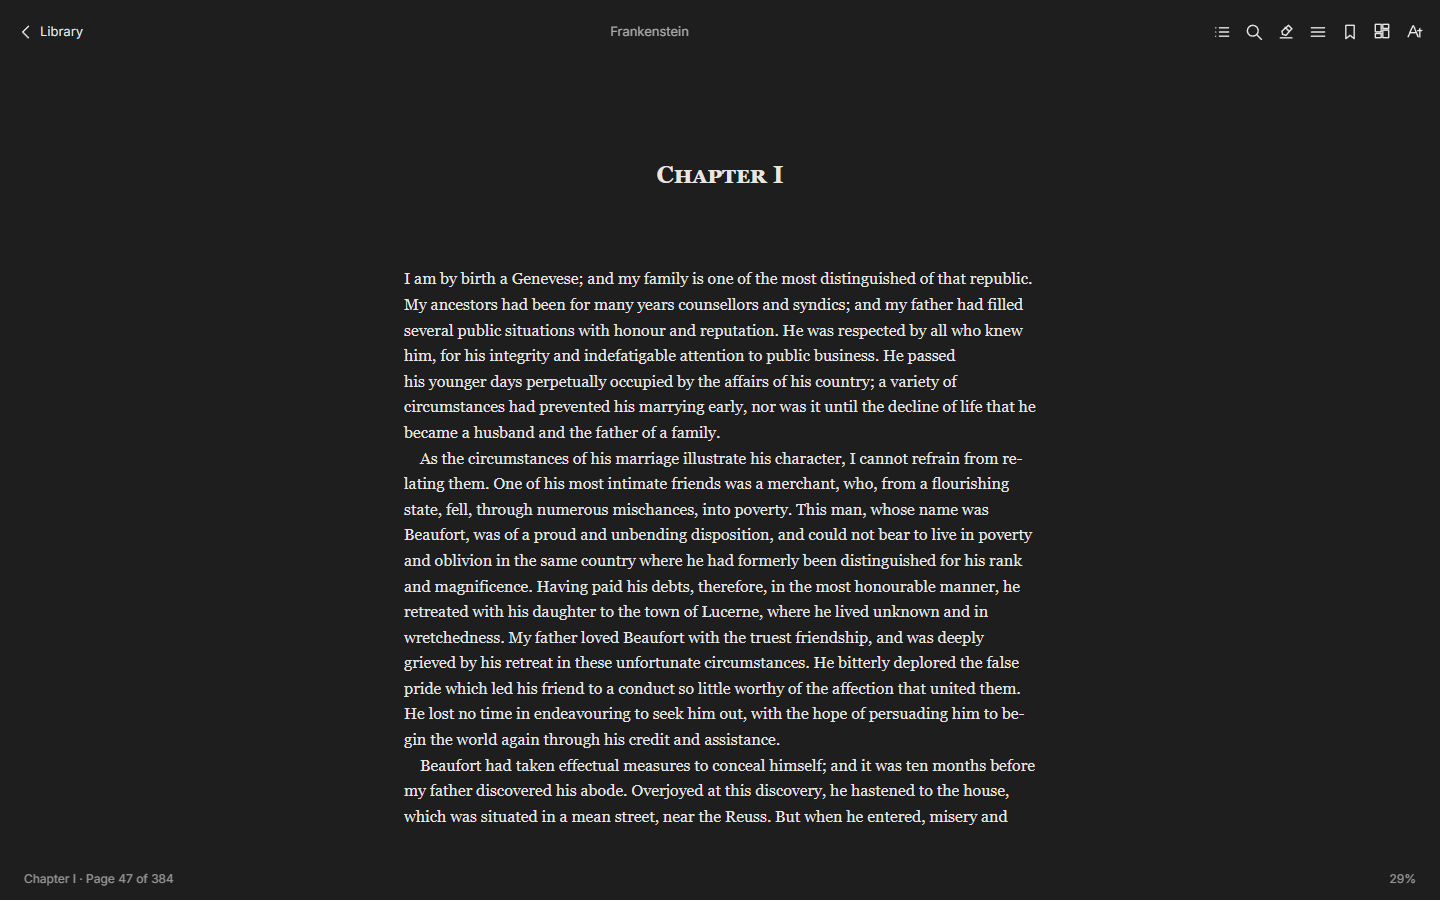
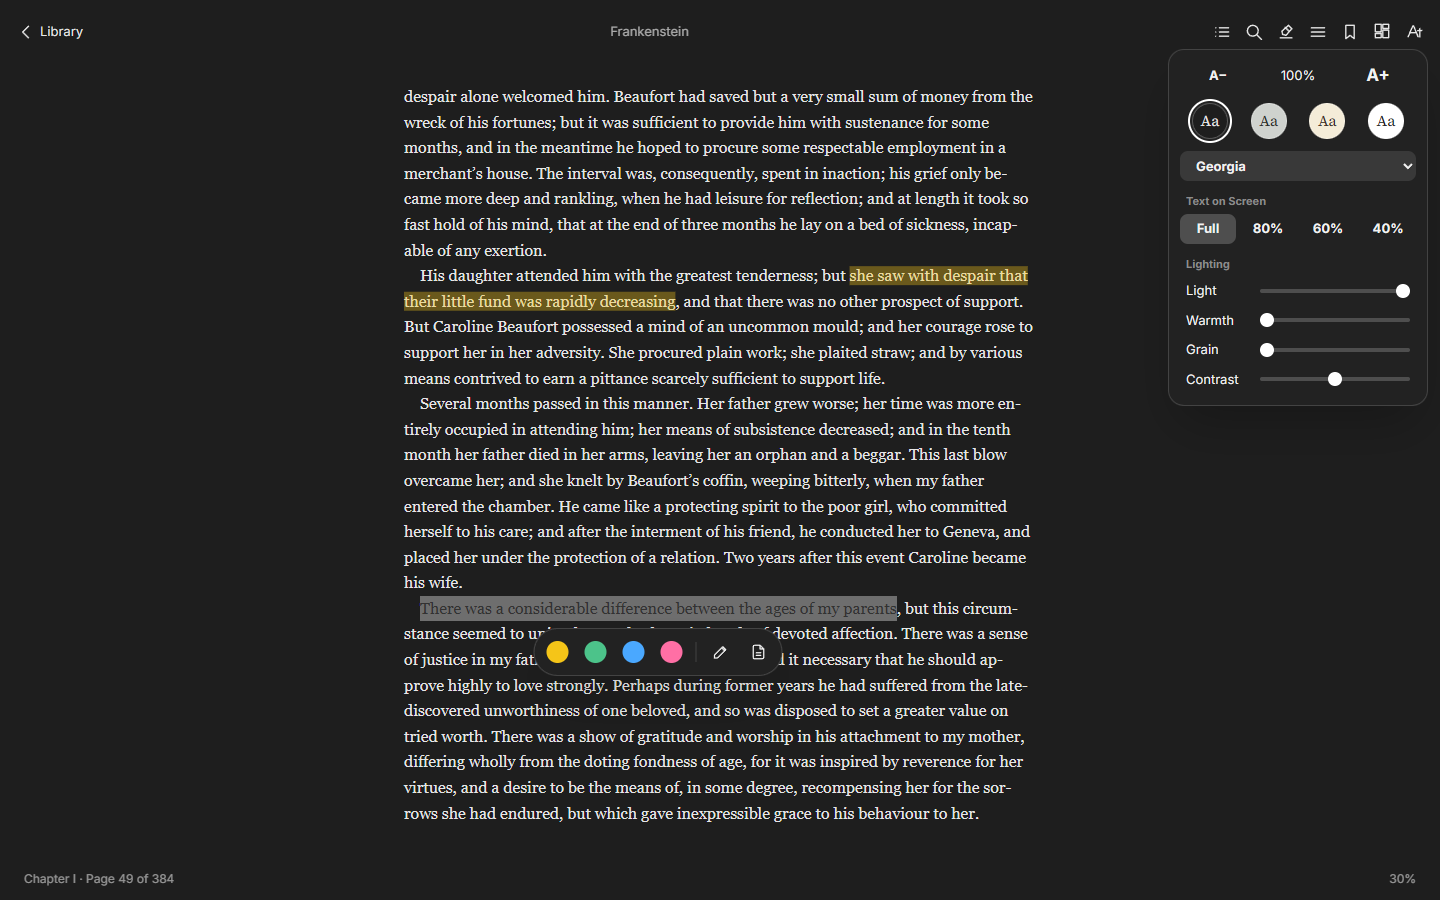
Website: a new reader screenshot; privacy, download and compare cover the new reader and guests
- Privacy says what a guest's browser and backup folder keep, and that the reader's fonts come from the server itself.

Changed region(s): [[0.2812, 0.0933, 0.7188, 0.9333], [0.8125, 0.0622, 1.0, 0.4356], [0.0938, 0.9644, 0.125, 0.9956]]

diff --git a/docs/compare.html b/docs/compare.html
@@ -37,7 +37,7 @@
           <tr>
             <td><b>Sonnet</b></td>
             <td>Ebooks, audiobooks, PDFs and manga in one library, with reading goals</td>
-            <td>You want one app for reading and listening, for a household, with almost no setup</td>
+            <td>You want one app for reading and listening, for a household or just yourself, with almost no setup and no account if you’d rather not make one</td>
           </tr>
           <tr>
             <td><a href="https://www.kavitareader.com">Kavita</a></td>
@@ -70,9 +70,10 @@
       <h2>What Sonnet does differently</h2>
       <ul>
         <li><b>One library for reading and listening.</b> EPUB, PDF, CBZ and TXT open in the built-in reader, and M4B, MP3, M4A, FLAC, OGG, Opus and WAV play in the same app.</li>
+        <li><b>A reader you set up your way.</b> Dark, dusk, sepia and light pages, seven typefaces, how much of the screen the text takes, and sliders for light, warmth, grain and contrast. Highlights in four colours with notes, by mouse or by finger.</li>
         <li><b>Goals and stats.</b> Daily and yearly goals, streaks, and charts of reading time, which count on their own while a book is open.</li>
         <li><b>Profiles and families.</b> Up to 8 profiles on one sign-in, and families that share shelves, recommendations and reviews.</li>
-        <li><b>Nothing to set up.</b> The desktop app can keep a private library on your computer with no server at all, or host it for your network with one click.</li>
+        <li><b>Nothing to set up.</b> The desktop app can keep a private library on your computer with no server at all, or host it for your network with one click. Continue Without an Account skips the sign-up too.</li>
         <li><b>No API keys.</b> Covers, ratings, genres and series are looked up without registering anywhere.</li>
       </ul>
 
@@ -82,7 +83,7 @@
         <li><b>No native phone apps.</b> On phones Sonnet installs from the browser to the home screen.</li>
         <li><b>No OPDS feed and no e-reader sync</b>, so it does not send books to a Kindle or Kobo, or feed apps such as KOReader.</li>
         <li><b>Fewer formats.</b> No MOBI, AZW3 or CBR; convert those first.</li>
-        <li><b>Username and password only.</b> No LDAP or single sign-on.</li>
+        <li><b>Username and password, or a guest.</b> No LDAP or single sign-on.</li>
         <li><b>A young project</b> with one developer, where the others have years of use behind them.</li>
       </ul>
 

diff --git a/docs/privacy.html b/docs/privacy.html
@@ -32,8 +32,29 @@
       <h2>What is stored, and where</h2>
       <p>
         Everything is kept on the computer that runs your server: accounts, shelves, ratings, reviews,
-        progress, reading time and the book files. Passwords are stored hashed, and so are sign-in
-        sessions. Whoever runs the server can read its database, as with any self-hosted software.
+        progress, bookmarks, highlights and notes, reading time and the book files. Passwords are stored
+        hashed, and so are sign-in sessions. Whoever runs the server can read its database, as with any
+        self-hosted software.
+      </p>
+
+      <h2>Reading without an account</h2>
+      <p>
+        <b>Continue Without an Account</b> makes a guest with no name or password, known to the server
+        only by a cookie in that browser, kept for up to 400 days. A guest whose cookie has run out is
+        deleted from the server, with what it held, the next time anyone continues without an account.
+      </p>
+      <p>
+        So that nothing is lost, a guest’s browser keeps a copy of their progress, bookmarks,
+        highlights, notes, shelves, settings and reading time in its own storage. If you choose a
+        backup folder, the same copy is written there as <code>sonnet-backup.json</code>, and the
+        browser remembers which folder it was. Neither copy is sent anywhere: both stay on your device.
+        Clearing the site’s data in the browser removes the first; the file is yours to delete.
+      </p>
+
+      <h2>The reader’s fonts</h2>
+      <p>
+        The typefaces you can choose in the reader are part of the app and are served by your own
+        server. Choosing one asks no other site for anything.
       </p>
 
       <h2>What the server sends</h2>
@@ -59,7 +80,8 @@
         The apps look for Sonnet servers with a broadcast that stays on your own network. When one opens
         it asks GitHub for the newest version, and says so if there is one; it never downloads or
         installs it. That check can be turned off: on the app’s first screen, or in the server’s tray
-        menu. They send nothing else.
+        menu. They send nothing else. A library kept on the computer itself is reached only by that
+        computer unless you choose to host it.
       </p>
 
       <h2>Building from the source</h2>

diff --git a/docs/download.html b/docs/download.html
@@ -35,7 +35,7 @@
           <tr><th>App</th><th>What it is</th><th>Windows</th><th>macOS</th><th>Linux</th></tr>
           <tr>
             <td><b>Sonnet</b></td>
-            <td>The reader, in its own window. Opens a server, or keeps a library on this computer.</td>
+            <td>The reader, in its own window. Opens a server, or keeps a library on this computer, with an account or without one.</td>
             <td><code>Sonnet.Setup….exe</code></td>
             <td><code>Sonnet-….dmg</code></td>
             <td><code>sonnet-desktop_….deb</code> or <code>Sonnet-….AppImage</code></td>

diff --git a/docs/index.html b/docs/index.html
@@ -149,7 +149,7 @@
               a note, with a finger or a mouse. Bookmarks, search and a table of contents.
             </p>
           </div>
-          <img class="shot" src="screenshots/reader.png" alt="The reader showing a chapter of Frankenstein" loading="lazy" />
+          <img class="shot" src="screenshots/reader.png" alt="The reader on a chapter of Frankenstein, with a highlight, the highlight toolbar and the appearance panel" loading="lazy" />
         </div>
         <div class="tour">
           <div>

diff --git a/README.md b/README.md
@@ -49,7 +49,7 @@ kept on your own server.
     <td><img src="docs/screenshots/search.webp" alt="Search results from the online catalogue"></td>
   </tr>
   <tr>
-    <td><img src="docs/screenshots/reader.png" alt="The reader showing a chapter of Frankenstein"></td>
+    <td><img src="docs/screenshots/reader.png" alt="The reader on a chapter of Frankenstein, with a highlight, the highlight toolbar and the appearance panel"></td>
     <td align="center"><img src="docs/screenshots/mobile.webp" width="230" alt="Home on a phone"></td>
   </tr>
 </table>
